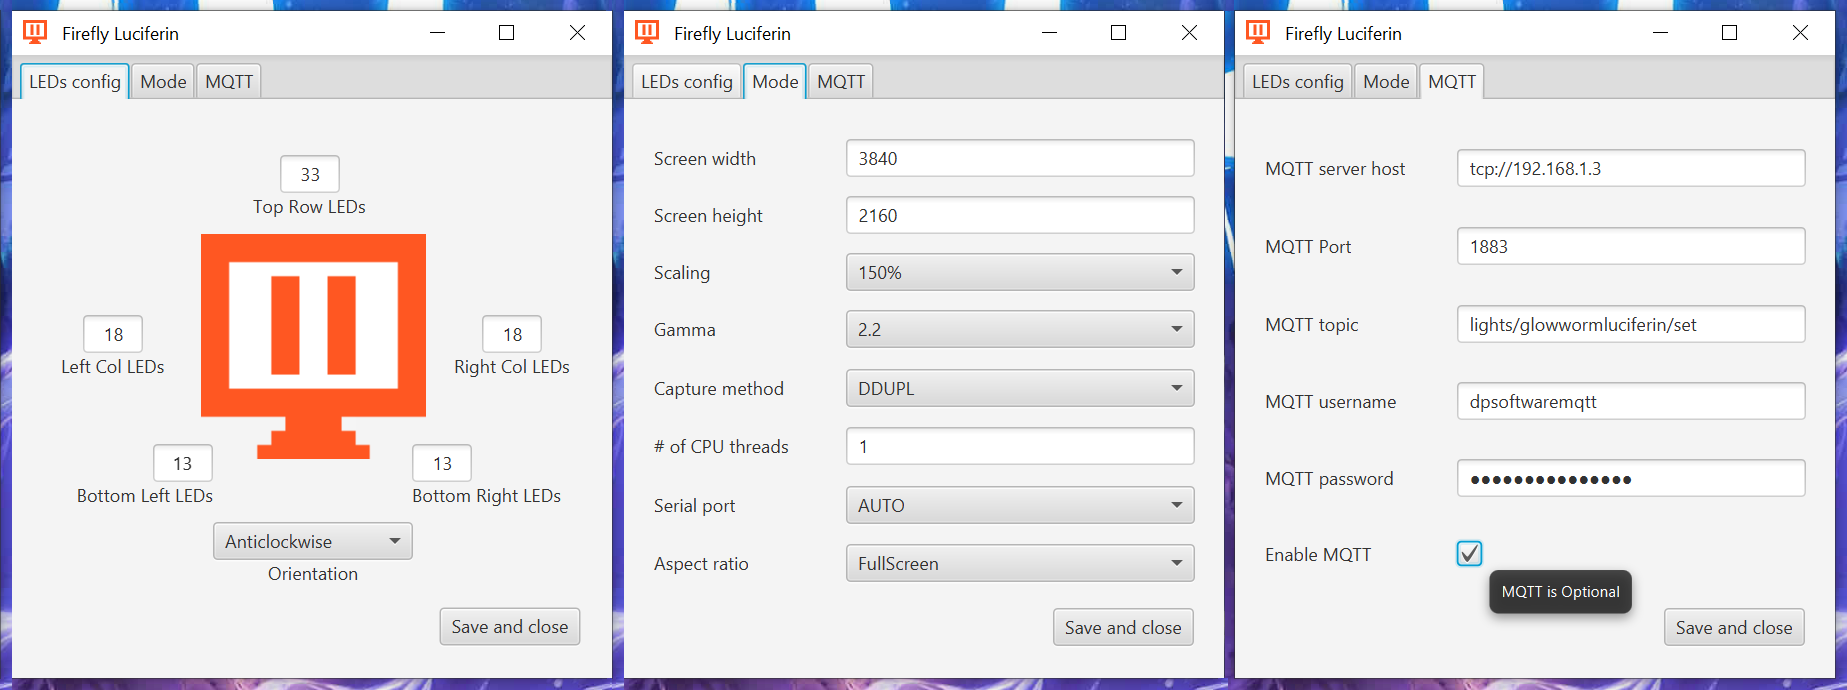
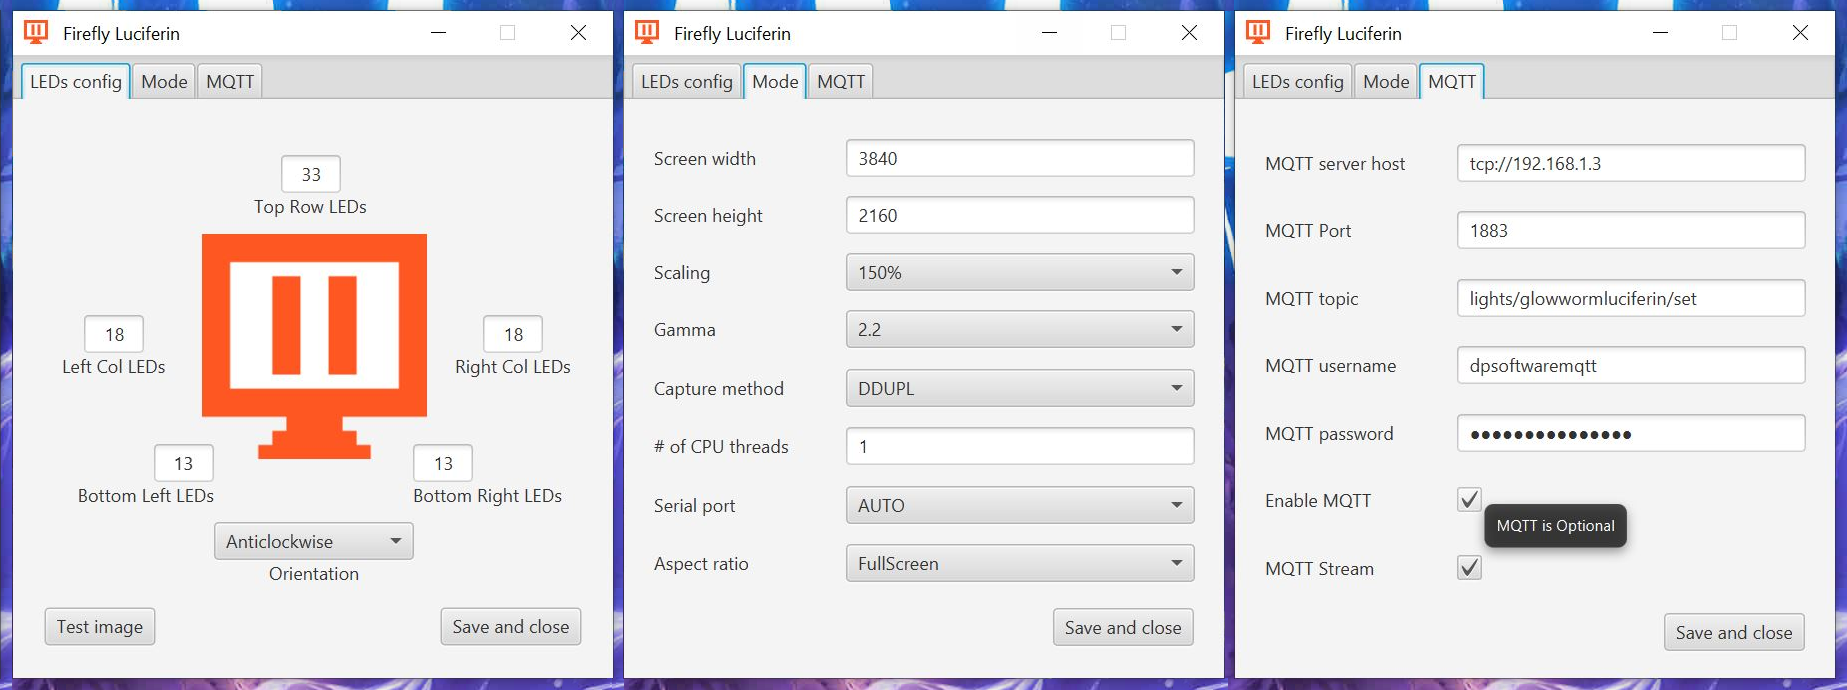
Mqtt stream (#10)
- MQTT is now able to drive the bias lighting effect without the needs of the serial port.  
- Faster output stream.  
- Reduced CPU load

diff --git a/src/main/java/org/dpsoftware/FireflyLuciferin.java b/src/main/java/org/dpsoftware/FireflyLuciferin.java
@@ -81,8 +81,11 @@ public class FireflyLuciferin extends Application {
     // GStreamer Rendering pipeline
     public static Pipeline pipe;
     public static GUIManager guiManager;
+    public static boolean communicationError = false;
+    // MQTT
+    MQTTManager mqttManager = null;
     // JavaFX scene
-    public static final String VERSION = "1.0.0";
+    public static final String VERSION = "1.1.0";
 
 
     /**
@@ -142,8 +145,6 @@ public class FireflyLuciferin extends Application {
             return null;
         });
 
-        // MQTT
-        MQTTManager mqttManager = null;
         if (config.isMqttEnable()) {
             mqttManager = new MQTTManager();
         } else {
@@ -164,24 +165,26 @@ public class FireflyLuciferin extends Application {
 
         imageProcessor.initGStreamerLibraryPaths();
         Gst.init("ScreenGrabber", "");
+        Dimension screenSize = Toolkit.getDefaultToolkit().getScreenSize();
 
         scheduledExecutorService.scheduleAtFixedRate(() -> {
             if (RUNNING && FPS_PRODUCER_COUNTER == 0) {
                 GStreamerGrabber vc = new GStreamerGrabber();
-                Bin bin = Gst.parseBinFromDescription(
-                        "dxgiscreencapsrc ! videoconvert",true);
+                Bin bin = Gst.parseBinFromDescription("dxgiscreencapsrc ! videoscale method=0 ! " +
+                                "queue max-size-buffers=0 max-size-bytes=0 max-size-time=0 min-threshold-time=0 ! " +
+                                "videoconvert",true);
                 pipe = new Pipeline();
                 pipe.addMany(bin, vc.getElement());
                 Pipeline.linkMany(bin, vc.getElement());
                 JFrame f = new JFrame("ScreenGrabber");
                 f.add(vc);
-                vc.setPreferredSize(new Dimension(3840, 2160));
+                vc.setPreferredSize(new Dimension((int)screenSize.getWidth(), (int)screenSize.getHeight()));
                 f.pack();
                 f.setDefaultCloseOperation(JFrame.EXIT_ON_CLOSE);
                 pipe.play();
                 f.setVisible(false);
             }
-        }, 1, 10, TimeUnit.SECONDS);
+        }, 1, 2, TimeUnit.SECONDS);
 
     }
 
@@ -263,26 +266,28 @@ public class FireflyLuciferin extends Application {
     private void initSerial() {
 
         CommPortIdentifier serialPortId = null;
-        var enumComm = CommPortIdentifier.getPortIdentifiers();
-        while (enumComm.hasMoreElements() && serialPortId == null) {
-            CommPortIdentifier serialPortAvailable = (CommPortIdentifier) enumComm.nextElement();
-            if (config.getSerialPort().equals(serialPortAvailable.getName()) || config.getSerialPort().equals("AUTO")) {
-                serialPortId = serialPortAvailable;
+        if (!(config.isMqttEnable() && config.isMqttStream())) {
+            var enumComm = CommPortIdentifier.getPortIdentifiers();
+            while (enumComm.hasMoreElements() && serialPortId == null) {
+                CommPortIdentifier serialPortAvailable = (CommPortIdentifier) enumComm.nextElement();
+                if (config.getSerialPort().equals(serialPortAvailable.getName()) || config.getSerialPort().equals("AUTO")) {
+                    serialPortId = serialPortAvailable;
+                }
             }
-        }
-        try {
-            if (serialPortId != null) {
-                logger.info("Serial Port in use: " + serialPortId.getName());
-                serial = serialPortId.open(this.getClass().getName(), config.getTimeout());
-                serial.setSerialPortParams(config.getDataRate(), SerialPort.DATABITS_8, SerialPort.STOPBITS_1, SerialPort.PARITY_NONE);
+            try {
+                if (serialPortId != null) {
+                    logger.info("Serial Port in use: " + serialPortId.getName());
+                    serial = serialPortId.open(this.getClass().getName(), config.getTimeout());
+                    serial.setSerialPortParams(config.getDataRate(), SerialPort.DATABITS_8, SerialPort.STOPBITS_1, SerialPort.PARITY_NONE);
+                }
+            } catch (PortInUseException | UnsupportedCommOperationException | NullPointerException e) {
+                communicationError = true;
+                GUIManager guiManager = new GUIManager();
+                guiManager.showAlert(guiManager.getSERIAL_ERROR_TITLE(),
+                        guiManager.getSERIAL_ERROR_OPEN_HEADER(),
+                        guiManager.getSERIAL_ERROR_CONTEXT());
+                logger.error(guiManager.getSERIAL_ERROR_OPEN_HEADER());
             }
-        } catch (PortInUseException | UnsupportedCommOperationException | NullPointerException e) {
-            logger.error("Can't open SERIAL PORT");
-            GUIManager guiManager = new GUIManager();
-            guiManager.showAlert("Serial Port Error",
-                    "Can't open Serial Port",
-                    "Serial port is in use or there is no microcontroller available.");
-            System.exit(0);
         }
 
     }
@@ -311,16 +316,17 @@ public class FireflyLuciferin extends Application {
      */
     private void initOutputStream() {
 
-        try {
-            output = serial.getOutputStream();
-        } catch (IOException | NullPointerException e) {
-            logger.error(e.toString());
-            logger.error("No serial port available");
-            GUIManager guiManager = new GUIManager();
-            guiManager.showAlert("Serial Port Error",
-                    "No serial port available",
-                    "Serial port is in use or there is no microcontroller available.");
-            System.exit(0);
+        if (!(config.isMqttEnable() && config.isMqttStream()) && !communicationError) {
+            try {
+                output = serial.getOutputStream();
+            } catch (IOException | NullPointerException e) {
+                GUIManager guiManager = new GUIManager();
+                guiManager.showAlert(guiManager.getSERIAL_ERROR_TITLE(),
+                        guiManager.getSERIAL_ERROR_HEADER(),
+                        guiManager.getSERIAL_ERROR_CONTEXT());
+                logger.error(e.toString());
+                logger.error(guiManager.getSERIAL_ERROR_HEADER());
+            }
         }
 
     }
@@ -335,21 +341,44 @@ public class FireflyLuciferin extends Application {
         if ("Clockwise".equals(config.getOrientation())) {
             Collections.reverse(Arrays.asList(leds));
         }
-        // Adalight checksum
-        int ledsCountHi = ((ledNumber - 1) >> 8) & 0xff;
-        int ledsCountLo = (ledNumber - 1) & 0xff;
-        output.write('A');
-        output.write('d');
-        output.write('a');
-        output.write(ledsCountHi);
-        output.write(ledsCountLo);
-        output.write((ledsCountHi ^ ledsCountLo ^ 0x55));
 
-        for (int i = 0; i < ledNumber; i++) {
-            output.write(leds[i].getRed()); //output.write(0);
-            output.write(leds[i].getGreen()); //output.write(0);
-            output.write(leds[i].getBlue()); //output.write(255);
+        int i = 0, j = -1;
+        if (config.isMqttEnable() && config.isMqttStream()) {
+
+            StringBuilder ledString = new StringBuilder("{" + "\"lednum\":" + ledNumber + ",\"stream\":[");
+            while (i < ledNumber) {
+                ledString.append(leds[i].getRGB());
+                ledString.append(",");
+                i++;
+            }
+            ledString.append(".");
+            mqttManager.stream(ledString.toString().replace(",.","") + "]}");
+
+        } else {
+
+            byte[] ledsArray = new byte[(ledNumber * 3) + 6];
+
+            // Adalight checksum
+            int ledsCountHi = ((ledNumber - 1) >> 8) & 0xff;
+            int ledsCountLo = (ledNumber - 1) & 0xff;
+
+            ledsArray[++j] = (byte) ('A');
+            ledsArray[++j] = (byte) ('d');
+            ledsArray[++j] = (byte) ('a');
+            ledsArray[++j] = (byte) (ledsCountHi);
+            ledsArray[++j] = (byte) (ledsCountLo);
+            ledsArray[++j] = (byte) ((ledsCountHi ^ ledsCountLo ^ 0x55));
+
+            while (i < ledNumber) {
+                ledsArray[++j] = (byte) leds[i].getRed();
+                ledsArray[++j] = (byte) leds[i].getGreen();
+                ledsArray[++j] = (byte) leds[i].getBlue();
+                i++;
+            }
+            output.write(ledsArray);
+
         }
+
         FPS_CONSUMER_COUNTER++;
 
     }

diff --git a/src/main/java/org/dpsoftware/gui/GUIManager.java b/src/main/java/org/dpsoftware/gui/GUIManager.java
@@ -23,6 +23,7 @@ import javafx.fxml.FXMLLoader;
 import javafx.scene.Parent;
 import javafx.scene.Scene;
 import javafx.scene.control.Alert;
+import javafx.scene.layout.Region;
 import javafx.stage.Stage;
 import lombok.Getter;
 import lombok.NoArgsConstructor;
@@ -63,7 +64,16 @@ public class GUIManager extends JFrame {
     // Tray icons
     Image imagePlay;
     Image imageStop;
+    Image imageGreyStop;
     MQTTManager mqttManager;
+    @Getter final String SERIAL_ERROR_TITLE = "Serial Port Error";
+    @Getter final String SERIAL_ERROR_HEADER = "No serial port available";
+    @Getter final String SERIAL_ERROR_OPEN_HEADER = "Can't open SERIAL PORT";
+    @Getter final String SERIAL_ERROR_CONTEXT = "Serial port is in use or there is no microcontroller available. Please connect a microcontroller or go to settings and choose MQTT Stream. Luciferin restart is required.";
+    @Getter final String MQTT_ERROR_TITLE = "MQTT Connection Error";
+    @Getter final String MQTT_ERROR_HEADER = "Unable to connect to the MQTT server";
+    @Getter final String MQTT_ERROR_CONTEXT = "Luciferin is unable to connect to the MQTT server, please correct your settings and retry.";
+
 
     /**
      * Constructor
@@ -100,6 +110,7 @@ public class GUIManager extends JFrame {
             // load an image
             imagePlay = Toolkit.getDefaultToolkit().getImage(this.getClass().getClassLoader().getResource("tray_play.png"));
             imageStop = Toolkit.getDefaultToolkit().getImage(this.getClass().getClassLoader().getResource("tray_stop.png"));
+            imageGreyStop = Toolkit.getDefaultToolkit().getImage(this.getClass().getClassLoader().getResource("tray_stop_grey.png"));
 
             // create menu item for the default action
             stopItem = new MenuItem("Stop");
@@ -127,7 +138,11 @@ public class GUIManager extends JFrame {
             popup.addSeparator();
             popup.add(exitItem);
             // construct a TrayIcon
-            trayIcon = new TrayIcon(imageStop, DIALOG_LABEL, popup);
+            if (FireflyLuciferin.communicationError) {
+                trayIcon = new TrayIcon(imageGreyStop, DIALOG_LABEL, popup);
+            } else {
+                trayIcon = new TrayIcon(imageStop, DIALOG_LABEL, popup);
+            }
             // set the TrayIcon properties
             trayIcon.addActionListener(listener);
             // add the tray image
@@ -208,11 +223,13 @@ public class GUIManager extends JFrame {
      */
     public void showAlert(String title, String header, String context) {
 
+        Platform.setImplicitExit(false);
         Alert alert = new Alert(Alert.AlertType.ERROR);
         Stage stage = (Stage) alert.getDialogPane().getScene().getWindow();
         setStageIcon(stage);
         alert.setTitle(title);
         alert.setHeaderText(header);
+        alert.getDialogPane().setMinHeight(Region.USE_PREF_SIZE);
         alert.setContentText(context);
         alert.showAndWait();
 
@@ -302,7 +319,11 @@ public class GUIManager extends JFrame {
             trayIcon.setImage(imagePlay);
             if (mqttManager != null) {
                 TimeUnit.SECONDS.sleep(4);
-                mqttManager.publishToTopic("{\"state\": \"ON\", \"effect\": \"GlowWorm\"}");
+                if ((FireflyLuciferin.config.isMqttEnable() && FireflyLuciferin.config.isMqttStream())) {
+                    mqttManager.publishToTopic("{\"state\": \"ON\", \"effect\": \"GlowWormWifi\"}");
+                } else {
+                    mqttManager.publishToTopic("{\"state\": \"ON\", \"effect\": \"GlowWorm\"}");
+                }
             }
         }
 

diff --git a/src/main/java/org/dpsoftware/gui/SettingsController.java b/src/main/java/org/dpsoftware/gui/SettingsController.java
@@ -73,6 +73,7 @@ public class SettingsController {
     @FXML private TextField mqttUser;
     @FXML private PasswordField mqttPwd;
     @FXML private CheckBox mqttEnable;
+    @FXML private CheckBox mqttStream;
     @FXML private TextField topLed;
     @FXML private TextField leftLed;
     @FXML private TextField rightLed;
@@ -163,6 +164,7 @@ public class SettingsController {
         mqttUser.setText(currentConfig.getMqttUsername());
         mqttPwd.setText(currentConfig.getMqttPwd());
         mqttEnable.setSelected(currentConfig.isMqttEnable());
+        mqttStream.setSelected(currentConfig.isMqttStream());
         orientation.setValue(currentConfig.getOrientation());
         topLed.setText(String.valueOf(currentConfig.getTopLed()));
         leftLed.setText(String.valueOf(currentConfig.getLeftLed()));
@@ -207,6 +209,7 @@ public class SettingsController {
         config.setMqttUsername(mqttUser.getText());
         config.setMqttPwd(mqttPwd.getText());
         config.setMqttEnable(mqttEnable.isSelected());
+        config.setMqttStream(mqttStream.isSelected());
         config.setTopLed(Integer.parseInt(topLed.getText()));
         config.setLeftLed(Integer.parseInt(leftLed.getText()));
         config.setRightLed(Integer.parseInt(rightLed.getText()));
@@ -412,10 +415,11 @@ public class SettingsController {
 
         mqttHost.setTooltip(createTooltip("OPTIONAL: MQTT protocol://host"));
         mqttPort.setTooltip(createTooltip("OPTIONAL: MQTT port"));
-        mqttTopic.setTooltip(createTooltip("OPTIONAL: MQTT topic, used to start/stop capturing and the action to your MQTT Broker (Easy integration with Home Assistant or openHAB)"));
+        mqttTopic.setTooltip(createTooltip("OPTIONAL: MQTT topic, used to start/stop capturing. Don't change it if you want to use Glow Worm Luciferin Firmware."));
         mqttUser.setTooltip(createTooltip("OPTIONAL: MQTT username"));
         mqttPwd.setTooltip(createTooltip("OPTIONAL: MQTT password"));
         mqttEnable.setTooltip(createTooltip("MQTT is Optional"));
+        mqttStream.setTooltip(createTooltip("Prefer wireless stream over serial port (USB cable). This option is ignored if MQTT is disabled. Enable this option if you don't have the possibility to use a USB cable."));
 
         if (currentConfig == null) {
             saveLedButton.setTooltip(createTooltip("You can change this options later"));
@@ -439,6 +443,7 @@ public class SettingsController {
         Tooltip tooltip;
         tooltip = new Tooltip(text);
         tooltip.setShowDelay(Duration.millis(200));
+        tooltip.setHideDelay(Duration.millis(6000));
         return tooltip;
 
     }

diff --git a/src/main/java/org/dpsoftware/MQTTManager.java b/src/main/java/org/dpsoftware/MQTTManager.java
@@ -19,6 +19,7 @@
 
 package org.dpsoftware;
 
+import org.dpsoftware.gui.GUIManager;
 import org.eclipse.paho.client.mqttv3.*;
 import org.slf4j.Logger;
 import org.slf4j.LoggerFactory;
@@ -43,9 +44,14 @@ public class MQTTManager implements MqttCallback {
 
         try {
             attemptReconnect();
-        } catch (MqttException e) {
+        } catch (MqttException | RuntimeException e) {
             connected = false;
-            logger.error("Can't connect to MQTT Server");
+            FireflyLuciferin.communicationError = true;
+            GUIManager guiManager = new GUIManager();
+            guiManager.showAlert(guiManager.getMQTT_ERROR_TITLE(),
+                    guiManager.getMQTT_ERROR_HEADER(),
+                    guiManager.getMQTT_ERROR_CONTEXT());
+            logger.error("Can't connect to the MQTT Server");
         }
 
     }
@@ -61,6 +67,7 @@ public class MQTTManager implements MqttCallback {
         connOpts.setAutomaticReconnect(true);
         connOpts.setCleanSession(true);
         connOpts.setConnectionTimeout(10);
+        connOpts.setMaxInflight(1000); // Default = 10
         connOpts.setUserName(FireflyLuciferin.config.getMqttUsername());
         connOpts.setPassword(FireflyLuciferin.config.getMqttPwd().toCharArray());
         client.connect(connOpts);
@@ -81,6 +88,22 @@ public class MQTTManager implements MqttCallback {
         message.setPayload(msg.getBytes());
         try {
             client.publish(FireflyLuciferin.config.getMqttTopic(), message);
+        } catch (MqttException e) {
+            logger.error("Cant't send MQTT msg");
+        }
+
+    }
+
+    /**
+     * Stream messages to the stream topic
+     * @param msg msg for the queue
+     */
+    public void stream(String msg) {
+
+        MqttMessage message = new MqttMessage();
+        message.setPayload(msg.getBytes());
+        try {
+            client.publish(FireflyLuciferin.config.getMqttTopic() + "/stream", message);
         } catch (MqttException e) {
             logger.error("Cant't send MQTT msg");
         }
@@ -132,12 +155,12 @@ public class MQTTManager implements MqttCallback {
     }
 
     /**
-     * Called when MQTT msg is sent
+     * Callback for MQTT message sent
      * @param token mqtt token
      */
     @Override
     public void deliveryComplete(IMqttDeliveryToken token) {
-        logger.info("delivered");
+        //logger.info("delivered");
     }
 
 }

diff --git a/src/main/java/org/dpsoftware/grabber/GStreamerGrabber.java b/src/main/java/org/dpsoftware/grabber/GStreamerGrabber.java
@@ -61,7 +61,7 @@ public class GStreamerGrabber extends javax.swing.JComponent {
         videosink.set("emit-signals", true);
         AppSinkListener listener = new AppSinkListener();
         videosink.connect(listener);
-        StringBuilder caps = new StringBuilder("video/x-raw,pixel-aspect-ratio=1/1,");
+        StringBuilder caps = new StringBuilder("video/x-raw,pixel-aspect-ratio=1/1,use-damage=0,sync=false,");
         // JNA creates ByteBuffer using native byte order, set masks according to that.
         if (ByteOrder.nativeOrder() == ByteOrder.LITTLE_ENDIAN) {
             caps.append("format=BGRx");

diff --git a/src/main/java/org/dpsoftware/Configuration.java b/src/main/java/org/dpsoftware/Configuration.java
@@ -91,6 +91,7 @@ public class Configuration {
     private String mqttUsername = "";
     private String mqttPwd = "";
     private boolean mqttEnable = false;
+    private boolean mqttStream = false;
 
     // LED Matrix Map
     private Map<String, LinkedHashMap<Integer, LEDCoordinate>> ledMatrix;
